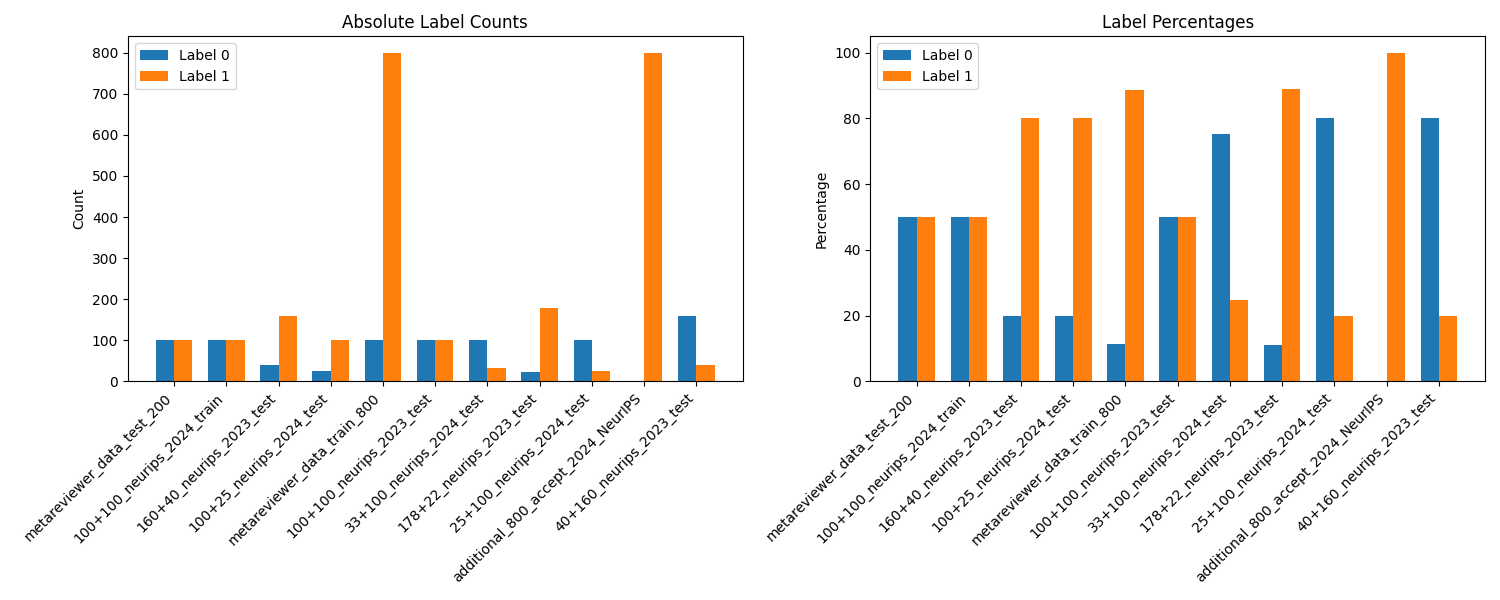
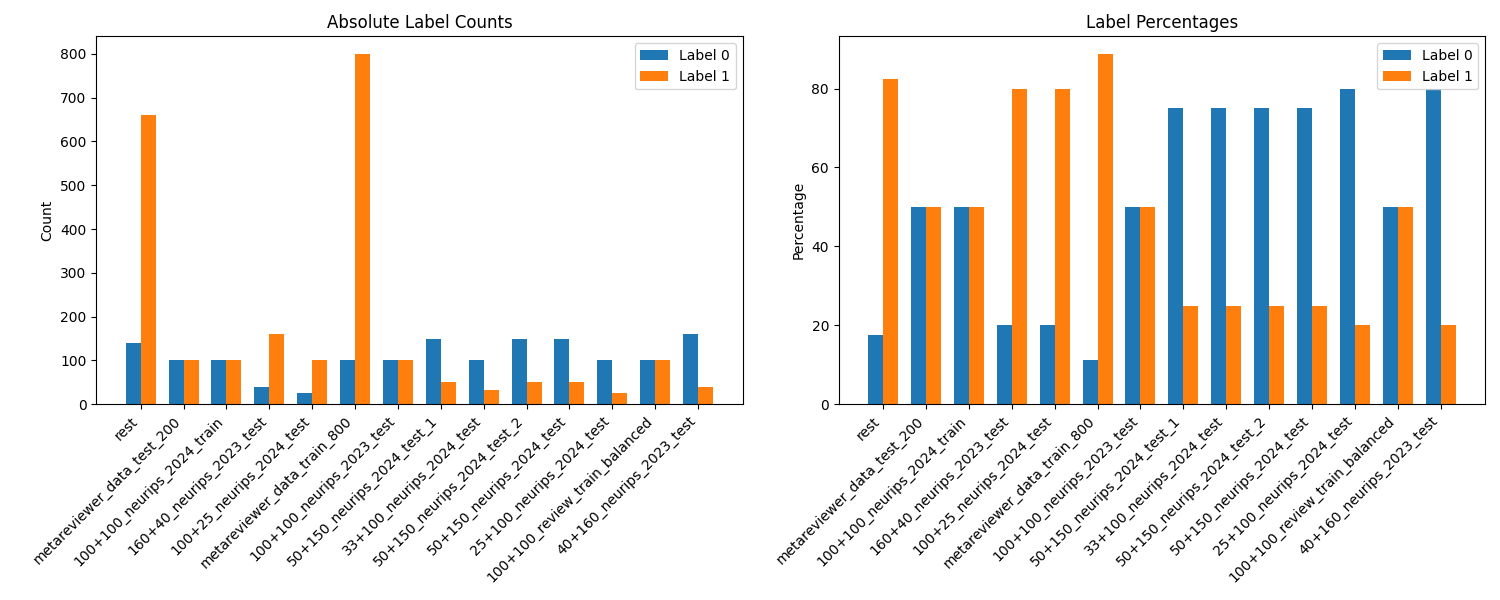
update

diff --git a/AI-Metareviewer/prompt_optimization/test_eval.py b/AI-Metareviewer/prompt_optimization/test_eval.py
@@ -11,7 +11,7 @@ import evaluators
 import re
 import argparse
 import random
-from sklearn.metrics import f1_score, confusion_matrix
+from sklearn.metrics import f1_score, confusion_matrix, accuracy_score
 import seaborn as sns
 import matplotlib.pyplot as plt
 import numpy as np
@@ -41,7 +41,7 @@ if __name__ == '__main__':
         # APO 4
         '# Task\n"Evaluate the following reviews (text) to determine whether the paper is likely to be accepted (Yes) or rejected (No) by an academic conference. Focus primarily on the overall sentiment conveyed in the reviews, considering the strengths and weaknesses highlighted by the reviewers. Take into account the reviewers\' confidence levels and how they weigh the positive aspects against the negative critiques. Pay special attention to instances where significant positive contributions or strong experimental results may outweigh the weaknesses mentioned. Provide a clear justification for your decision that reflects this overall sentiment and balance in evaluations." \n\n# Output format\nAnswer Yes or No as labels\n\n# Prediction\nText: {{ text }}\nLabel:',
         # APO 5
-        '# Task\n"Classify the following reviews of a submitted paper as accepted (\'Yes\') or rejected (\'No\'). Carefully analyze the numerical ratings and qualitative feedback from the reviewers. Pay attention to the overall sentiment about the paper\'s contributions, considering both strengths and weaknesses. If the reviews highlight significant strengths and contributions, they should be given considerable weight in favor of acceptance, regardless of criticisms. Ensure that your classification reflects the comprehensive sentiment of the reviews, and provide a summary that details the key strengths and weaknesses, explaining how they influenced your final decision. Aim to provide a balanced assessment that recognizes the merits of the submission while considering the critiques." \n\n# Output format\nAnswer Yes or No as labels\n\n# Prediction\nText: {{ text }}\nLabel:',
+        '# Task\n"Evaluate the following reviews to determine the likelihood of acceptance (Yes) or rejection (No) of the paper by an academic conference. Focus on the specific strengths and weaknesses pointed out by the reviewers, particularly emphasizing the originality, theoretical contributions, and empirical validation of the research. Assess how well the positive aspects of the paper counterbalance the criticisms raised. Take into account the reviewers\' confidence levels and ensure that your conclusion is well-supported by the review content, justifying the decision based on a comprehensive analysis of both favorable and unfavorable comments." \n\n# Output format\nAnswer Yes or No as labels\n\n# Prediction\nText: {{ text }}\nLabel:',
         # OPRO-6
         "# Task: Critically evaluate the provided reviews of the academic paper, focusing on the assessment of the innovative approach, methodological soundness, and clarification of results. Author remarks on the strengths and weaknesses should be synthesized to determine if the overall contributions substantially outweigh the drawbacks, culminating in a clear recommendation for acceptance (Yes) or rejection (No). Emphasize the optimistic aspects of the review while effectively addressing any given critiques to justify your conclusion. \n\n# Output format\nAnswer Yes or No as labels\n\n# Prediction\nText: {{ text }}\nLabel:",
         # OPRO-7
@@ -53,8 +53,93 @@ if __name__ == '__main__':
         # OPRO-10
         "# Task: Conduct a thorough analytic review of the academic paper evaluations, examining key strengths, methodological clarity, and the overall impact on the field of study. Evaluate the likelihood that the strengths highlight a significantly impactful contribution that outweighs any documented weaknesses. Make a definitive acceptance determination by choosing either Yes for acceptance or No for rejection. Support this decision with detailed, evidential justifications that underline favorable critiques and thoughtfully discuss any concerns, all while conveying an optimistic outlook on the potential of the research to advance understanding within its domain. \n\n# Output format\nAnswer Yes or No as labels\n\n# Prediction\nText: {{ text }}\nLabel:",
         # OPRO-11
-        "# Task: Evaluate the provided reviews of the academic paper by analyzing its conceptual contributions, robustness of findings, and clarity of exposition. Determine if the positive aspects the reviewers recognize in relation to the proposed methods and theoretical foundations significantly outweigh any limitations or critiques presented. Based on this analysis, issue a final recommendation of acceptance (Yes) or rejection (No), thoroughly justifying your decision with explicit references to strengths, weaknesses, and contextual relevance to advance understanding in the field. Maintain a forward-looking and supportive perspective that highlights areas for future exploration or improvement. \n\n# Output format\nAnswer Yes or No as labels\n\n# Prediction\nText: {{ text }}\nLabel:",
+        '# Task: Critically review the peer evaluations of the research paper on neural generator models for molecular design, systematically highlighting each reviewer\'s emphasized points regarding the scientific merit, innovative contributions, and applied methodologies. Assess how the paper\'s qualities outweigh identified shortcomings while ensuring the insights presented are grounded in coherent reasoning derived from reviewer critiques. Notably, make an evaluative judgment advocating for acceptance (Yes) or rejection (No) backed by substantial evidence captured in the reviews, recognizing any suggestions for improvement. Your conclusion should succinctly reflect a deepened understanding of the work\'s significance within molecular generation discusssions.\n\n# Output format\nAnswer Yes or No as labels\n\n# Prediction\nText: {{ text }}\nLabel:',
+        # OPRO-12
+        '# Task: Assess the reviews of the provided research paper by critically examining the strengths, weaknesses, and overall contributions presented, with a particular focus on evaluating its impact and relevance in the field. Provide a well-supported recommendation for acceptance (Yes) or rejection (No) based on a clear synthesis of reviewer comments, making sure to substantiate the final verdict by highlighting notable strengths that significantly counterbalance any identified flaws. Ensure the analysis reflects both quantitative metrics (such as numerical ratings) and qualitative assessments drawn from the reviews. Summarize in a conclusive statement that affirms the decision and conveys the paper\'s importance within its academic context.\n\n# Output format\nAnswer Yes or No as labels\n\n# Prediction\nText: {{ text }}\nLabel:',
+        # OPRO-13
+        '# Task: Evaluate the given peer reviews of a research paper to form an integrated conclusion about its potential for acceptance (Yes) or rejection (No). Analyze the criticism and praise provided by the reviewers, particularly emphasizing the insights regarding innovative contributions, soundness of methodology, clarity of presentation, and the relevance to current challenges in the field. Ensure that the final decision is strongly justified using specific examples from the reviews to highlight the paper\'s overall merit and areas of concern that may influence its acceptance." \n\n# Output format\nAnswer Yes or No as labels\n\n# Prediction\nText: {{ text }}\nLabel:',
+        # OPRO-14
+        '# Task: Evaluate the peer reviews of the research paper with attention to the originality, practicality, and scholarly significance of the proposed model editing method. Focus on the reviewers\' assessments of strengths, weaknesses, and suggested improvements, and decide whether the merits of the paper justifiably lead to a recommendation for acceptance (Yes) or a rejection (No). Your analysis should synthesize key arguments from the reviews and make a well-supported case for your final determination, outlining how the paper contributes to the advancement of knowledge in the field while addressing valid concerns raised by reviewers.\n\n# Output format\nAnswer Yes or No as labels\n\n# Prediction\nText: {{ text }}\nLabel:',
+        # APO - 15  
+        '# Task\n"Assess the following reviews of a submitted paper to classify it as accepted (\'Yes\') or rejected (\'No\'). Carefully consider the overall sentiment expressed in the reviews, including both strengths and weaknesses. Pay particular attention to the numerical ratings, qualitative feedback, and the confidence levels of the reviewers. While individual criticisms are important, ensure that you weigh the positive aspects and contributions of the paper against them. If the reviews highlight significant strengths that suggest the paper has merit despite criticisms, lean towards acceptance. Summarize your decision with a rationale that emphasizes the overall sentiment, the balance of strengths and weaknesses, and the reviewers\' confidence in their evaluations." \n\n# Output format\nAnswer Yes or No as labels\n\n# Prediction\nText: {{ text }}\nLabel:',
+        # OPRO - 16
+        '# Task: Conduct a thorough analysis of the peer reviews of the research paper focusing on the innovation presented, the empirical robustness of the methodology, and the potential applications of the findings. Evaluate how the strengths mentioned by reviewers are substantial enough to counter the limitations they have also highlighted, considering aspects like coherence, originality, and relevance to the field. Your final decision should reflect a balanced synthesis of these views, ultimately articulating a recommendation of acceptance (Yes) or rejection (No) supported with explicit references to reviewer comments to underline your conclusion." \n\n# Output format\nAnswer Yes or No as labels\n\n# Prediction\nText: {{ text }}\nLabel:',
+        # OPRO - 17
+        '# Task: Analyze the reviews of the academic paper focusing on the methodologies applied, the clarity of the contributions to existing knowledge, and the overall presentation of ideas. Assess if the pros of the research sufficiently mitigate the cons as presented in the critiques, providing a balanced recommendation for either acceptance (Yes) or rejection (No). Support the conclusion with an insightful summary that emphasizes the strengths and addresses the weaknesses candidly, promoting a positive perspective on the paper\'s potential implications in its field." \n\n# Output format\nAnswer Yes or No as labels\n\n# Prediction\nText: {{ text }}\nLabel:',
+        # from claude recommendations
+        # OPRO - 18
+        '# Task: Analyze the peer reviews of the research paper to convey a nuanced judgment regarding its acceptance (Yes) or rejection (No). Emphasize unique findings, theoretical advancements, and practical implications when applicable. Weigh the reviewed strengths against limitations raised, prioritizing clarity, methodological soundness, and relevance to the conference, with a rationale substantiated through cited reviewer feedback." \n\n# Output format\nAnswer Yes or No as labels\n\n# Prediction\nText: {{ text }}\nLabel:',
+        # OPRO - 19
+        '# Task: Summarize the reviews provided for the research paper, highlighting its key contributions, soundness, and clarity of presentation. Analyze the strengths that support an acceptance (Yes) against any significant weaknesses that may lead to rejection (No). Provide a direct recommendation for acceptance or rejection of the paper, grounded in the synthesis of reviewer evaluations." \n\n# Output format\nAnswer Yes or No as labels\n\n# Prediction\nText: {{ text }}\nLabel:',
+        # OPRO - 20
+        '# Task: Summarize the reviews of the research paper, highlighting the strengths and weaknesses identified by reviewers. Focus on the overall contribution to the field, theoretical innovation, experimental validation, and methodological consistency. Provide a clear recommendation for acceptance (Yes) or rejection (No) based on whether the outcomes satisfy academic standards for quality, clarity, and overall significance." \n\n# Output format\nAnswer Yes or No as labels\n\n# Prediction\nText: {{ text }}\nLabel:',
+        # OPRO - 21
+        '# Task: Analyze the peer reviews of the research paper and produce a thorough recommendation for acceptance (Yes) or rejection (No). Focus on evaluating the significance of the contributions, innovation, rigor, and practical implications presented in the work. Review both the strengths and criticisms highlighted by the reviewers, ensuring a balanced assessment." \n\n# Output format\nAnswer Yes or No as labels\n\n# Prediction\nText: {{ text }}\nLabel:',
+        # OPRO - 22
+        '# Task: Summarize the reviewer evaluations of the research paper, accentuating key aspects such as innovative methodologies, empirical validation, theoretical implications, and clarity of results. Assess the overall contribution against identified weaknesses. Develop a conclusive recommendation for acceptance (Yes) or rejection (No)." \n\n# Output format\nAnswer Yes or No as labels\n\n# Prediction\nText: {{ text }}\nLabel:',
+        # APO - 23 0.71
+        '# Task\n"Given the following reviews of an academic paper, assess whether the paper should be accepted (Yes) or rejected (No). Consider the overall tone and context of the reviews, weighing the strengths and weaknesses mentioned. Even if there are some weaknesses highlighted, if the overall consensus is positive and the contributions are significant, the paper may still warrant acceptance."\n\n# Output format\nAnswer Yes or No as labels\n\n# Prediction\nText: {{ text }}\nLabel:', 
+        # APO - 24 0.71
+        '# Task\n"Based on the following reviews of an academic paper, determine the overall likelihood of acceptance. Take into account key strengths, such as innovative contributions and thorough experimental validation, alongside any weaknesses raised by the reviewers. Assess how the positive aspects may balance or overshadow the negative critiques."\n\n# Output format\nAnswer Yes or No as labels\n\n# Prediction\nText: {{ text }}\nLabel:',
+        # APO - 25 0.715
+        '# Task\n"Review the following text and categorize the paper\'s outcome as \'Accepted\' (Yes), \'Rejected\' (No), or \'Borderline\' (might be accepted with revisions) for an academic conference. Pay particular attention to the overall tone of the review, including any specific phrases or indicators that suggest the reviewer\'s nuanced perspective on the paper\'s merits. Assess the strengths and weaknesses mentioned, focusing on the soundness of the methodology, quality of presentation, and contributions to the field. Consider any contrasting statements where a reviewer acknowledges significant weaknesses but still rates the paper as borderline or above. Look for phrases that indicate the reviewer\'s confidence level and overall sentiment towards the potential of the paper despite its flaws."\n\n# Output format\nAnswer Yes or No as labels\n\n# Prediction\nText: {{ text }}\nLabel:', 
+        # APO -26 0.72
+        '# Task\n"Evaluate the provided reviews of the academic paper and determine whether the paper should be accepted (Yes) or rejected (No). In your analysis, prioritize the overall sentiment and collective ratings from all reviewers. Pay attention to the number of reviewers who recommend acceptance and their confidence levels, as well as the context of any criticisms. A paper may still be viewed favorably for acceptance if it receives high ratings from multiple reviewers, even if one or two reviews express concerns. Consider the significance of the paper\'s contributions and whether the strengths identified outweigh the weaknesses. Your final decision should reflect the prevailing sentiment across all reviews, taking into account both praise and criticism."\n\n# Output format\nAnswer Yes or No as labels\n\n# Prediction\nText: {{ text }}\nLabel:', 
+        # APO - 27 0.73
+        '# Task\n"Evaluate the provided reviews of the academic paper and decide if the paper should be accepted (Yes) or rejected (No). While assessing, prioritize the overall sentiment and context of the reviews, particularly focusing on the strengths and weaknesses presented. Consider the significance of the contributions in relation to the criticisms raised, and balance them against the reviewers\' confidence levels. Pay attention to any marginal ratings that may indicate a leaning toward acceptance despite some issues. Your final decision should reflect the overall sentiment, indicating whether the paper is more likely to be accepted or rejected based on its merits."\n\n# Output format\nAnswer Yes or No as labels\n\n# Prediction\nText: {{ text }}\nLabel:', 
+        # APO - 28 0.75
+        '# Task\n"Evaluate the following academic paper reviews and determine whether the paper should be accepted (Yes) or rejected (No). Focus on the strengths and weaknesses identified by the reviewers, particularly those that suggest a significant contribution or potential impact of the paper despite existing concerns. Pay attention to nuanced evaluations, especially those indicating borderline acceptance or rejection, and consider how positive aspects may outweigh negative ones. Your final decision should reflect a comprehensive understanding of the reviews and the overall contribution of the paper within its research domain."\n\n# Output format\nAnswer Yes or No as labels\n\n# Prediction\nText: {{ text }}\nLabel:',
+        # APO - 29 0.665
+        '# Task\n"Assess the likelihood of acceptance (Yes) or rejection (No) for the provided academic paper reviews, emphasizing both quantitative ratings and qualitative feedback. Analyze the strengths, weaknesses, and key insights from each review, considering how they contribute to an overall understanding of the paper\'s significance. Be mindful of cases where individual reviews may present compelling reasons for acceptance that are not fully reflected in their numerical scores. Your classification should balance the consensus among reviewers with the specific merits discussed, ensuring that critical perspectives are integrated into the final assessment. Consider the overall sentiment expressed in the reviews while looking for any contradictions that might indicate a more nuanced outcome." \n\n# Output format\nAnswer Yes or No as labels\n\n# Prediction\nText: {{ text }}\nLabel:', 
+        # APO - 30 0.74
+       '# Task\n"Given the following reviews (text), determine whether a paper would be accepted (Yes) or not (No) by an academic conference. Take into account the overall quality of the reviews, including soundness, presentation, contribution ratings, and confidence levels of the reviewers. Pay close attention to the reviewers\' expressed sentiments, strengths, and weaknesses. Even if some weaknesses are mentioned, assess the overall tone and confidence of the reviews to identify any strong leanings toward acceptance or rejection. Provide a brief justification for your decision based on the information presented in the reviews, highlighting key factors that influenced your classification." \n\n# Output format\nAnswer Yes or No as labels\n\n# Prediction\nText: {{ text }}\nLabel:', 
+        # APO - 31 0.68
+       '# Task\n"Given the following reviews (text), evaluate whether a paper would likely be accepted (Yes) or rejected (No) by an academic conference. Focus on the qualitative aspects of the reviews, particularly the strengths and weaknesses identified by the reviewers, as well as any nuanced comments that suggest potential for improvement or significant contributions to the field. While numerical ratings provide context, prioritize the content of the reviews to assess the overall potential for acceptance. Provide a reason for your decision based on the insights derived from the reviews." \n\n# Output format\nAnswer Yes or No as labels\n\n# Prediction\nText: {{ text }}\nLabel:',
+        # from claude recommendations
+        # OPRO - 32 
+        "# Task\n'Analyze the reviews of the academic paper by assessing the clarity of contributions, robustness of methodology, and overall impact on the field. Determine if the identified strengths and positive remarks from reviewers substantially overshadow the critiques. Based on this analysis, provide a final decision on paper acceptance with either Yes for acceptance or No for rejection, ensuring an objective evaluation that captures both optimism about its potential impact and critical engagement with its limitations.' \n\n# Output format\nAnswer Yes or No as labels\n\n# Prediction\nText: {{ text }}\nLabel:",
+        # OPRO - 33
+        '# Task\n"Analyze the reviews of the academic paper focusing on the methodologies applied, the clarity of the contributions to existing knowledge, and the overall presentation of ideas. Assess if the pros of the research sufficiently mitigate the cons as presented in the critiques, providing a balanced recommendation for either acceptance (Yes) or rejection (No)." \n\n# Output format\nAnswer Yes or No as labels\n\n# Prediction\nText: {{ text }}\nLabel:',
+        # OPRO - 34
+        '# Task\n"Examine the critiques and strengths articulated in the reviews of the research paper, assessing elements such as theoretical contributions, practical implications, and methodological soundness. Make a determination for acceptance (Yes) or rejection (No) based on an integrated analysis of reviewer feedback, ensuring to explicitly state how the advantages surpass the concerns and providing balanced reasoning that reflects both qualitative insights and any quantitative data. Conclusions should actionable and clearly articulated to highlight both potential impact and any significant limitations identified." \n\n# Output format\nAnswer Yes or No as labels\n\n# Prediction\nText: {{ text }}\nLabel:',
+        # OPRO - 35
+        '# Task\n"Analyze the peer reviews of the research paper to formulate a contextual recommendation for its acceptance (Yes) or rejection (No). Assess the originality of the contributions, empirical validity, and clarity of the results while systematically reviewing specific comments from peer evaluations. Make recommendations based on a net evaluation where strengths are clearly articulated, effectively outweighing acknowledged limitations. Ensure that your final decision carefully integrates the diversity of insights from the reviews, accentuating its scientific significance and endorsing actionable feedback. Aim to consolidate the overall impression that highlights both the impact of the research and realistic evaluations from the reviewers." \n\n# Output format\nAnswer Yes or No as labels\n\n# Prediction\nText: {{ text }}\nLabel:',
+        # OPRO - 36
+        '# Task\n"Evaluate the peer reviews of the research paper with an emphasis on the overall contributions, innovations, and practical implementations within the context of the methodology and subject matter. Identify both compelling strengths that substantiate a case for acceptance (Yes) and critical flaws that undermine the argument for rejection (No). Provide a clear, structured recommendation concluding with a judicious balance of insight drawn from review feedback aligned with established criteria in the field. Your decision should be well-supported with specific examples from the reviewers\' comments to solidify the evaluative outcome and represent a nuanced understanding of the paper\'s relevance and impact." \n\n# Output format\nAnswer Yes or No as labels\n\n# Prediction\nText: {{ text }}\nLabel:',  
+        # OPRO - 37 0.72
+        '# Task\n"Evaluate the provided reviews of the academic paper by examining the perceived strengths and weaknesses highlighted by reviewers. Focus on the contributions to the field, applicability of the methodology, and clarity of presentation. Decide if the total positive feedback suggests that the merits of the paper significantly outweigh its challenges. Based on this analysis, designate the paper as accepted (Yes) or rejected (No)." \n\n# Output format\nAnswer Yes or No as labels\n\n# Prediction\nText: {{ text }}\nLabel:',
+        # OPRO - 38 0.71
+        '# Task\n"Examine the various reviews for the academic paper while focusing on the evaluations of methodological soundness, contribution to the field, and quality of presentation. Analyze if the strengths collectively present a compelling case for acceptance vastly outweighing the criticisms noted by the reviewers. Integrate this analysis with an understanding of the paper\'s potential impact on the research community to arrive at a final decision regarding the paper\'s acceptance—assigning either Yes for acceptance or No for rejection." \n\n# Output format\nAnswer Yes or No as labels\n\n# Prediction\nText: {{ text }}\nLabel:',
+        # OPRO - 39 0.73
+        '# Task\n"Evaluate the reviews of the academic paper by synthesizing the strengths and weaknesses put forth by the reviewers, emphasizing the relevance and innovation of the proposed methods in the context of existing literature. Carefully assess whether the positive aspects, particularly in terms of empirical validation and potential impact, substantially exceed the criticisms taken into account. Finally, issue a definitive recommendation of acceptance (Yes) or rejection (No) based on this comprehensive evaluation along with clear justification for the decision based on the overall contributions and significance to the field." \n\n# Output format\nAnswer Yes or No as labels\n\n# Prediction\nText: {{ text }}\nLabel:',
+        # OPRO - 40 0.73
+        '# Task\n"Conduct a comprehensive assessment of the reviews regarding the academic paper, focusing on the novel contributions, theoretical rigor, and empirical evidence provided. Evaluate whether the strengths identified notably surpass the weaknesses mentioned by the reviewers, particularly emphasizing contributions to the methodology and applicability in the field. Finally, arrive at a conclusive acceptance recommendation of either Yes for acceptance or No for rejection, grounded in a synthesis of insights while highlighting the overall relevance and potential impact on the field." \n\n# Output format\nAnswer Yes or No as labels\n\n# Prediction\nText: {{ text }}\nLabel:',
+        # OPRO - 41 0.76
+        '# Task\n"Evaluate the detailed reviews of the academic paper by scrutinizing the originality, methodology, and influence of the proposed contributions within the context of existing literature. Assess whether the strengths presented in the reviewers\' comments substantially outweigh the criticisms raised, and determine the overall significance of the findings. Formulate a recommendation regarding acceptance (Yes or No), justifying your decision with a clear and constructive analysis that emphasizes both positive aspects and any remedial comments to address weaknesses—while maintaining a supportive and optimistic tone that underscores the potential impact of the research." \n\n# Output format\nAnswer Yes or No as labels\n\n# Prediction\nText: {{ text }}\nLabel:',
+        # OPRO - 42 0.73
+        '# Task\n"Assess the critiques and prominent strengths of the academic paper, focusing on novelty, methodological robustness, and presentation clarity. Determine if the paper\'s contributions notably surpass any identified limitations, fostering growth in the research area. Conclude with a recommendation of acceptance (Yes) or rejection (No), substantiated by a thorough evaluation that emphasizes favorable aspects while constructively addressing critiques in a supportive manner." \n\n# Output format\nAnswer Yes or No as labels\n\n# Prediction\nText: {{ text }}\nLabel:',
+        # OPRO - 43 0.74
+        '# Task\n"Evaluate the critiques and praises stated in the academic paper reviews with particular emphasis on the clarity of methodology, the significance of contributions to the field, and the adequacy of experimental validation. Determine whether the positive aspects substantially overshadow the critiques. Provide a nuanced acceptance judgment (Yes or No), accompanied by explicit and comprehensive justifications that skillfully balance addressing the weaknesses while highlighting the optimistic elements that promise advancements in research." \n\n# Output format\nAnswer Yes or No as labels\n\n# Prediction\nText: {{ text }}\nLabel:',
+        # OPRO - 44 0.72
+        '# Task\n"Conduct a comprehensive assessment of the academic paper reviews, focusing on the clarity and originality of the proposed method, the soundness of the theoretical framework, and the effectiveness demonstrated through empirical results. Determine whether the positive attributes consistently identified by reviewers outweigh the noted areas for improvement. Conclude with a recommendation for acceptance (Yes) or rejection (No), substantiating your decision with critical reflections that highlight encouraging feedback while thoughtfully addressing critiques." \n\n# Output format\nAnswer Yes or No as labels\n\n# Prediction\nText: {{ text }}\nLabel:',
+        # OPRO - 45 0.74
+        '# Task\n"Conduct a focused assessment of the provided academic paper reviews, concentrating on the significance of contributions, the surpassing of offered strengths over stated weaknesses, and overall clarity of presentation. Analyze whether the findings presented in each review sufficiently warrant an affirmative or negative acceptance decision. Provide a justified conclusion that substantiates a decision of acceptance (Yes) or rejection (No), ensuring that the justification amplifies the anticipated contributions and potential future impacts on the field while handily addressing criticisms mentioned within the reviews." \n\n# Output format\nAnswer Yes or No as labels\n\n# Prediction\nText: {{ text }}\nLabel:',
+        # OPRO - 46 0.75
+        '# Task\n"Perform an in-depth analysis of the academic paper based on the provided reviews, focusing on the novelty of the proposed methodology, the thoroughness of the experimental evaluations, and the clarity and organization of the presentation. Consider whether the identified strengths of the paper significantly outweigh the weaknesses noted by reviewers. Ultimately, issue a clear acceptance decision (Yes or No), substantiated by well-reasoned justifications that highlight the merits of the work while addressing any limitations. Ensure the assessment maintains an optimistic perspective regarding the research\'s implications and contributions to the relevant field." \n\n# Output format\nAnswer Yes or No as labels\n\n# Prediction\nText: {{ text }}\nLabel:',
+        # OPRO - 47 0.81
+        '# Task\n"Assess the provided reviews of the academic paper with a precise focus on the theoretical and empirical contributions through a critical lens. Determine whether the strengths asserted by the reviewers substantially overshadow any weaknesses. Make a decisive recommendation for acceptance (Yes) or rejection (No), bolstered by explicit, confident justifications that incorporate positive insights, clarify critical concerns, and add depth to the discussion on the paper\'s potential advances and contributions to its field. Keep a tone that is both optimistic and constructive, aiming to inspire further inquiry into the subject matter." \n\n# Output format\nAnswer Yes or No as labels\n\n# Prediction\nText: {{ text }}\nLabel:',
+        # OPRO - 48 0.715
+        '# Task\n"Assess the provided reviews of the research paper, focusing on the contributions of the work, its innovative aspects, methodological validity, and clarity of presentation. Analyze the reviewers\' comments to determine if the strengths considerably outweigh the identified weaknesses, contradicting the notion of rejection. Based on this evaluation, make a definitive recommendation for acceptance (Yes) or rejection (No), ensuring a clear rationale that reflects the feedback and assesses its overall significance to the field." \n\n# Output format\nAnswer Yes or No as labels\n\n# Prediction\nText: {{ text }}\nLabel:',
+        # OPRO - 49 0.71
+        '# Task\n"Perform a comprehensive analysis of the peer reviews for the research paper on Dinomaly, focusing on elements such as innovation, performance comparisons with existing methods, extended discussions on theoretical contributions, and practicality of the findings. Identify and evaluate how the strengths noted by the reviewers predominantly outweigh the weaknesses mentioned, thus forming a robust argument for acceptance (Yes) or rejection (No). Ensure your evaluation uses explicit references from the reviews to substantiate your reasoning, creating a well-rounded conclusion that encompasses core aspects of research significance, clarity, and essential improvements suggested by the reviewers." \n\n# Output format\nAnswer Yes or No as labels\n\n# Prediction\nText: {{ text }}\nLabel:',
+        # OPRO - 50 0.71
+        '# Task\n"Conduct a thorough evaluation of the research paper reviews, emphasizing contributions to existing knowledge, methodological rigor, theoretical insights, and presentation quality. Analyze and synthesize feedback to present a cohesive recommendation for acceptance (Yes) or rejection (No), ensuring you highlight how significant strengths, based on explicit reviewer insights, outweigh any weaknesses. Your conclusion should be substantiated by detailed references to the reviews, advancing a nuanced judgement of the paper\'s impact and value within the broader scholarly discourse." \n\n# Output format\nAnswer Yes or No as labels\n\n# Prediction\nText: {{ text }}\nLabel:',
+        # OPRO - 51 0.705
+        '# Task\n"Perform a comprehensive review of the provided peer evaluations of the research paper, with a concentrated focus on the originality of the contributions, methodological integrity, theoretical and practical significance, as well as clarity of communication. Identify how the strengths elucidated by reviewers substantiate a strong case for acceptance (Yes), evidencing the ability of the findings to significantly advance the knowledge in the respective field, while addressing any minor weaknesses with constructive suggestions for improvement. Ensure the final recommendation conveys a well-grounded judgement on the merit of the paper’s impact and relevance in ongoing scholarly discussions." \n\n# Output format\nAnswer Yes or No as labels\n\n# Prediction\nText: {{ text }}\nLabel:',
+        # OPRO - 52 trial 
+        '# Task\n"Given the following reviews (text), determine if a paper would be accepted (Yes) or not (No) by an academic conference."\n\n# Output format\nAnswer Yes or No as labels\n\n# Prediction\nText: {{ text }}\nLabel:',
         ]
+    
 
     args = {"task": "metareviewer", "data_dir": "data/", "prompts": "prompts/metareview.md", "model": "gpt-4o-mini", "eval_model": "gpt-4o-mini", "out": "results/eval-240/test_top_prompts.out", "max_threads": 8, "temperature": 0.0, "expansion_temperature": 0.7, "optimizer": "nl-gradient", "rounds": 8, "beam_size": 5, "minibatch_size": 64, "n_gradients": 4, "errors_per_gradient": 4, "gradients_per_error": 1, "steps_per_gradient": 1, "mc_samples_per_step": 2, "max_expansion_factor": 8, "engine": "chatgpt", "evaluator": "bf", "scorer": "01", "eval_rounds": 5, "eval_prompts_per_round": 6, "samples_per_eval": 8, "c": 2.0, "knn_k": 2, "knn_t": 0.993, "reject_on_errors": False, "eval_budget": 240}
     # Print all candidates
@@ -64,30 +149,66 @@ if __name__ == '__main__':
 
     # List of test files to evaluate
     test_files = [
-        # 'data/additional_data_800+800_2023_NeurIPS.csv',
-        # 'data/additional_data_800+800_2024_NeurIPS.csv',
-        # 'data/additional_data_800+800_2024_ICLR.csv',   
-        # 'data/additional_data_800+800_2025_ICLR.csv',
-        # "data/metareviewer_data_train_800.csv",
-        # 'data/100+100_neurips_2024_train.csv',
-        # "data/metareviewer_data_test_200.csv",
-        # 'data/25+100_neurips_2024_test.csv',
-        # 'data/100+25_neurips_2024_test.csv',
-        # 'data/100+100_neurips_2023_test.csv',
+        # 0
+        'data/additional_data_800+800_2023_NeurIPS.csv',
+        # 1
+        'data/additional_data_800+800_2024_NeurIPS.csv',
+        # 2
+        'data/additional_data_800+800_2024_ICLR.csv',   
+        # 3
+        'data/additional_data_800+800_2025_ICLR.csv',
+        # 4
+        "data/metareviewer_data_train_800.csv",
+        # 5
+        'data/100+100_neurips_2024_train.csv',
+        # 6
+        "data/metareviewer_data_test_200.csv",
+        # 7
+        'data/25+100_neurips_2024_test.csv',
+        # 8
+        'data/100+25_neurips_2024_test.csv',
+        # 9
+        'data/100+100_neurips_2023_test.csv',
+        # 10
         'data/40+160_neurips_2023_test.csv',
-        # 'data/160+40_neurips_2023_test.csv',
-        # 'data/178+22_neurips_2023_test.csv',
-        # 'data/33+100_neurips_2024_test.csv',
-        # "data/140+140_neurips_2024_test.csv",
+        # 11
+        'data/160+40_neurips_2023_test.csv',
+        # 12
+        'data/178+22_neurips_2023_test.csv',
+        # 13
+        'data/33+100_neurips_2024_test.csv',
+        # 14
+        "data/140+140_neurips_2024_test.csv",
+        # 15
+        "data/50+150_neurips_2024_test.csv",
+        # 16
+        "data/50+150_neurips_2024_test_1.csv",
+        # 17
+        "data/50+150_neurips_2024_test_2.csv",
+        # 18
+        "data/50+150_neurips_2024_test_0_opro.csv",
+        # 19
+        "data/50+150_neurips_2024_test_1_opro.csv",
+        # 20
+        "data/50+150_neurips_2024_test_2_opro.csv",
+        # 21
+        "data/33+100_neurips_2024_test_1v1_0.csv",
+        # 22
+        "data/33+100_neurips_2024_test_1v1_1.csv",
+        # 23
+        "data/33+100_neurips_2024_test_1v1_2.csv",
     ]
 
     # pick candidate index 6, 7,8 for 140+140_neurips_2024_test.csv
-    candidate_indices = [11]
+    candidate_indices = [52]
+    test_files_indices = [6]  
+    splits = ['1v1', '8v1','4v1']
 
     task = tasks.MetareviewerBinaryTask('data/', 8)
     gpt4 = predictors.BinaryPredictor(args)
 
-    for test_file in test_files:
+    for test_file_index in test_files_indices:
+        test_file = test_files[test_file_index]
         print(f"\nEvaluating on file: {test_file}")
         with open(args["out"], 'a') as outf:
             outf.write(f'\nEvaluating on file: {test_file}\n')
@@ -109,9 +230,13 @@ if __name__ == '__main__':
                     sub_ids.extend(ids)
                     sub_preds.extend(preds)
                     sub_labels.extend(labels)
-                f1 = f1_score(sub_labels, sub_preds, average='micro')
-                print(f"\ncnt_preds: {len(sub_preds)}\n - f1: {f1}\n")
-                f1s.append(f1)
+
+                accuracy = accuracy_score(sub_labels, sub_preds)
+                micro_f1 = f1_score(sub_labels, sub_preds, average='micro')
+                binary_f1 = f1_score(sub_labels, sub_preds, average='binary')
+                macro_f1 = f1_score(sub_labels, sub_preds, average='macro')
+                print(f"\ncnt_preds: {len(sub_preds)}\n - f1_micro: {micro_f1}\n - accuracy: {accuracy}\n - f1_binary: {binary_f1}\n - f1_macro: {macro_f1}\n")
+                # f1s.append(f1)
                 
                 # Create and plot confusion matrix
                 cm = confusion_matrix(sub_labels, sub_preds)
@@ -124,10 +249,10 @@ if __name__ == '__main__':
                 plt.xlabel('Predicted Label')
                 
                 # Save the confusion matrix plot
-                plt.savefig(f'results/cm/confusion_matrix_candidate_train_4v1_candidate_{j}_neurips_2023_test.png')
+                plt.savefig(f'results/cm/APRO_cm_train_{splits[1]}_candidate_{j}_test_{test_file_index}.png')
                 plt.close()
                 
-            with open(args["out"], 'a') as outf:  
-                outf.write(f'{f1s}\n')
+            # with open(args["out"], 'a') as outf:  
+            #     outf.write(f'{f1s}\n')
             print(f1s)
             

diff --git a/AI-Metareviewer/prompt_optimization/main.py b/AI-Metareviewer/prompt_optimization/main.py
@@ -62,14 +62,14 @@ def get_args():
     parser.add_argument('--eval_model', default='gpt-4o-mini')
     
     # parser.add_argument('--config', default='default.json')
-    parser.add_argument('--out', default='results/train_on_data_1v1_neurips.out')
+    parser.add_argument('--out', default='results/train_on_data_1v1_continue_tp1.2.out')
     parser.add_argument('--max_threads', default=8, type=int)
     parser.add_argument('--temperature', default=0.0, type=float)
-    parser.add_argument('--expansion_temperature', default=0.7, type=float)
+    parser.add_argument('--expansion_temperature', default=1.2, type=float)
     parser.add_argument('--optimizer', default='nl-gradient')
 
     # rounds
-    parser.add_argument('--rounds', default=6, type=int)
+    parser.add_argument('--rounds', default=12, type=int)
     parser.add_argument('--beam_size', default=5, type=int)
     parser.add_argument('--n_test_exs', default=200, type=int) 
     parser.add_argument('--minibatch_size', default=64, type=int)
@@ -125,8 +125,6 @@ if __name__ == '__main__':
     # all balanced
     train_exs_ori = task.get_train_examples(config['data_dir'] + '/metareviewer_data_train_800.csv')
     test_exs = task.get_test_examples(config['data_dir'] + '/metareviewer_data_test_200.csv')
-    # train_exs = task.get_train_examples(config['data_dir'] + '/700+700_iclr_2025_train.csv')
-    # test_exs = task.get_test_examples(config['data_dir'] + '/100+100_iclr_2025_test.csv')
 
     if os.path.exists(args.out):
         os.remove(args.out)
@@ -138,6 +136,7 @@ if __name__ == '__main__':
     
     candidates = [open(fp.strip()).read() for fp in args.prompts.split(',')]
 
+ 
     # for round in tqdm(range(config['rounds'])):
     for round in tqdm(range(config['rounds'])):
         print("STARTING ROUND ", round + 1)

diff --git a/AI-Metareviewer/prompt_optimization/optimizers.py b/AI-Metareviewer/prompt_optimization/optimizers.py
@@ -127,6 +127,14 @@ class ProTeGi(PromptOptimizer):
         """
         minibatch = random.sample(train_exs, k=self.opt['minibatch_size'])
 
+        # count minibatch distribution 
+        minibatch_distribution = {}
+        for ex in minibatch:
+            if ex['label'] not in minibatch_distribution:
+                minibatch_distribution[ex['label']] = 0
+            minibatch_distribution[ex['label']] += 1
+        print(f"\nminibatch distribution: {minibatch_distribution}\n")
+
         new_responses = []
         for prompt in tqdm(prompts, desc=f'expanding {len(prompts)} prompts'):
             # evaluate prompt on minibatch

diff --git a/AI-Metareviewer/prompt_optimization/prompts/metareview.md b/AI-Metareviewer/prompt_optimization/prompts/metareview.md
@@ -1,5 +1,5 @@
 # Task
-Given the following reviews (text), determine if a paper would be accepted (Yes) or not (No) by an academic conference.
+Evaluate the following academic paper reviews and determine whether the paper should be accepted (Yes) or rejected (No). Focus on the strengths and weaknesses identified by the reviewers, particularly those that suggest a significant contribution or potential impact of the paper despite existing concerns. Pay attention to nuanced evaluations, especially those indicating borderline acceptance or rejection, and consider how positive aspects may outweigh negative ones. Your final decision should reflect a comprehensive understanding of the reviews and the overall contribution of the paper within its research domain.
 
 # Output format
 Answer Yes or No as labels

diff --git a/README.md b/README.md
@@ -10,12 +10,12 @@ This study focuses on optimizing nonparametric algorithms for academic paper rev
 #### Biased Prompt 
 - Prompt: 
 `Analyze the reviews provided, decide if the paper in question would be accepted at an academic conference. The vast majority of papers are accepted. About 0.05 of papers are rejected at the conference. Answer only ACCEPT or REJECT`
-- Test F1 - 4o-mini: 0.75
+- Test F1 - 4o-mini: 0.67
 
 #### Neutral Prompts 
 - Inital Prompt for this task: 
   `Given the following reviews (text), determine if a paper would be accepted (Yes) or not (No) by an academic conference.`
-   - Test F1 - 4o-mini: 0.692
+   - Test F1 - 4o-mini: 0.69
    - Test F1 - 4.1-nano: 0.55
 
 - Optional: 
